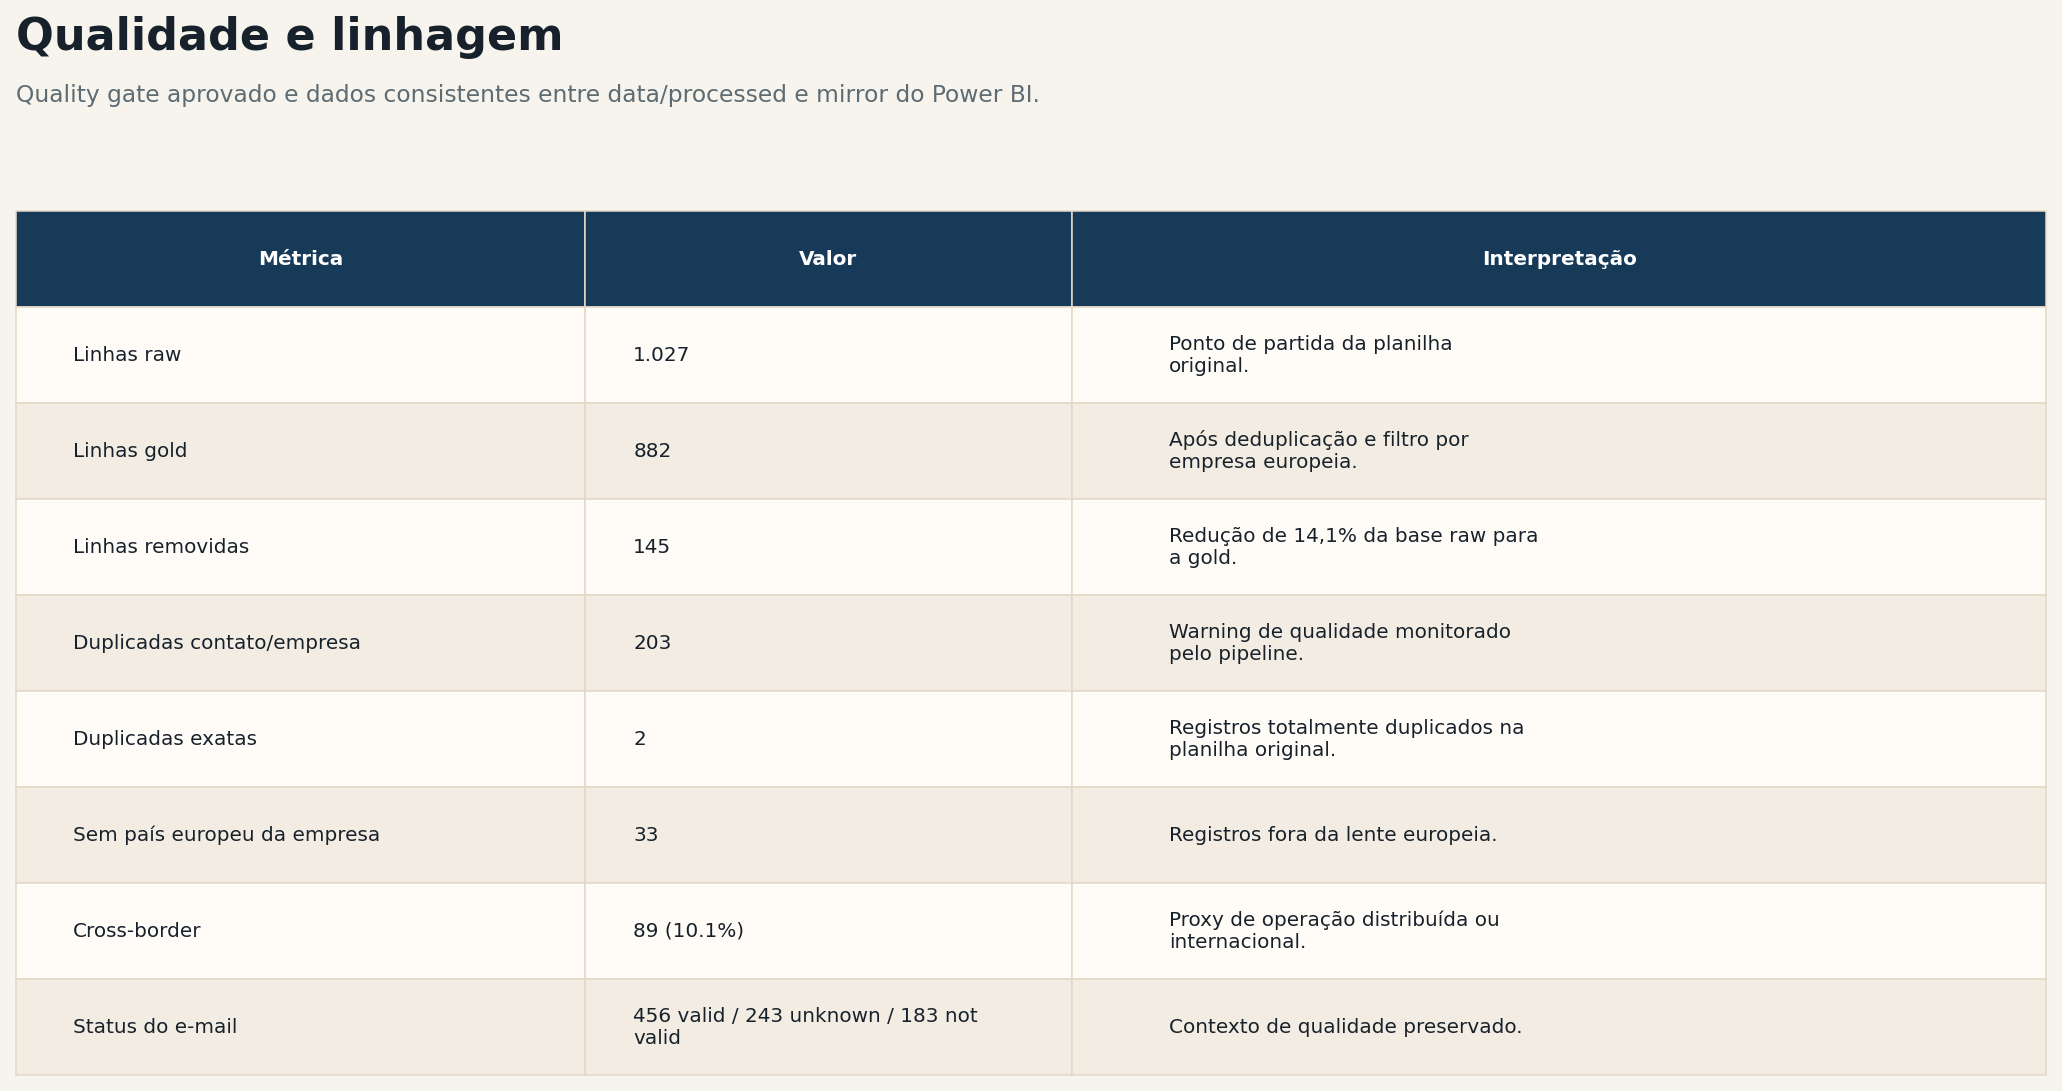
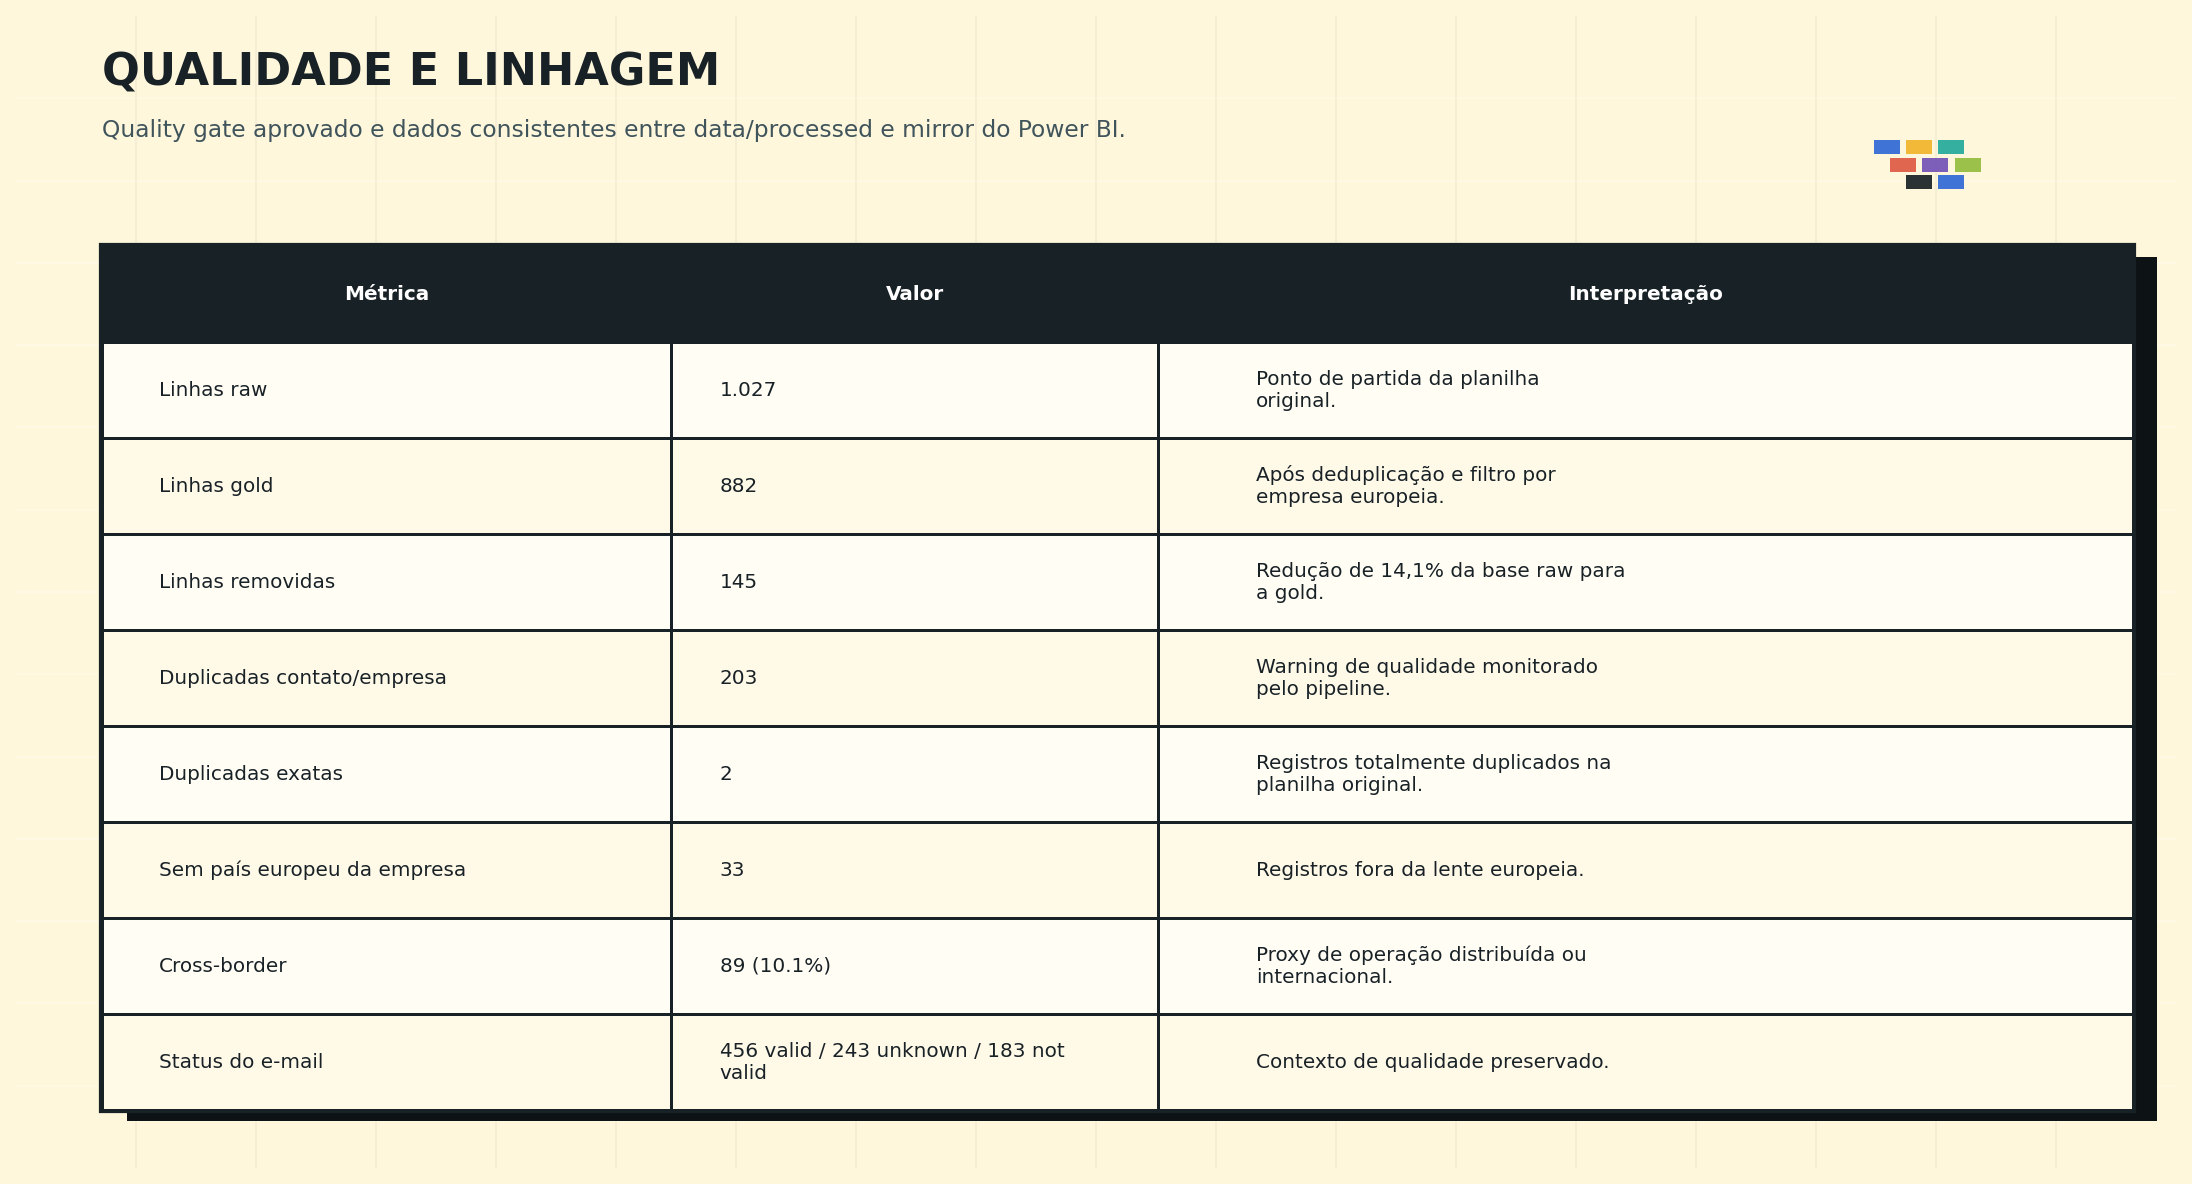
docs: align report previews with pixel art theme

Changed region(s): [[0.0, 0.0935, 0.9932, 0.9661], [0.0, 0.0, 0.5276, 0.1247]]

diff --git a/scripts/build_readme_visual_assets.py b/scripts/build_readme_visual_assets.py
@@ -13,23 +13,37 @@ matplotlib.use("Agg")
 import matplotlib.pyplot as plt
 import pandas as pd
 import seaborn as sns
-from matplotlib.patches import FancyBboxPatch
+from matplotlib.patches import Rectangle
 
 
 PROJECT_ROOT = Path(__file__).resolve().parents[1]
 PROCESSED_DIR = PROJECT_ROOT / "data" / "processed"
 FIGURES_DIR = PROJECT_ROOT / "reports" / "figures"
 
-BG = "#F7F4EE"
-PANEL = "#FFFCF7"
-INK = "#17212B"
-MUTED = "#5D6B72"
-GRID = "#E3D8C8"
-TEAL = "#0B6B5F"
-ORANGE = "#D88A28"
-BLUE = "#183A59"
-PURPLE = "#7A5CFF"
-RED = "#C25132"
+BG = "#FFF7DC"
+PANEL = "#FFFDF4"
+PANEL_ALT = "#FFF9E8"
+INK = "#182126"
+SHADOW = "#0D1215"
+MUTED = "#40545C"
+GRID = "#D7CBB6"
+TEAL = "#24A99A"
+ORANGE = "#F0B429"
+BLUE = "#2E68D6"
+PURPLE = "#7252B8"
+RED = "#DF5A44"
+LEAF = "#94BD3F"
+
+plt.rcParams.update(
+    {
+        "font.family": "DejaVu Sans Mono",
+        "axes.titleweight": "bold",
+        "axes.labelcolor": INK,
+        "xtick.color": INK,
+        "ytick.color": INK,
+        "text.color": INK,
+    }
+)
 
 
 def _load_data() -> tuple[pd.DataFrame, pd.DataFrame, pd.DataFrame, pd.DataFrame]:
@@ -40,18 +54,89 @@ def _load_data() -> tuple[pd.DataFrame, pd.DataFrame, pd.DataFrame, pd.DataFrame
     return gold, country, role, size
 
 
-def _style_axis(ax: plt.Axes) -> None:
+def _add_pixel_grid(fig: plt.Figure) -> None:
+    for x in [i / 18 for i in range(1, 18)]:
+        fig.lines.append(
+            plt.Line2D([x, x], [0, 1], transform=fig.transFigure, color=INK, alpha=0.045, linewidth=0.8, zorder=-20)
+        )
+    for y in [i / 14 for i in range(1, 14)]:
+        fig.lines.append(
+            plt.Line2D([0, 1], [y, y], transform=fig.transFigure, color="#FFFFFF", alpha=0.24, linewidth=0.8, zorder=-20)
+        )
+
+
+def _add_pixel_mosaic(fig: plt.Figure, x: float = 0.86, y: float = 0.88, scale: float = 1.0, alpha: float = 0.92) -> None:
+    size = 0.012 * scale
+    gap = 0.003 * scale
+    pattern = [
+        (0, 0, BLUE),
+        (1, 0, ORANGE),
+        (2, 0, TEAL),
+        (0.5, -1, RED),
+        (1.5, -1, PURPLE),
+        (2.5, -1, LEAF),
+        (1, -2, INK),
+        (2, -2, BLUE),
+    ]
+    for col, row, color in pattern:
+        fig.patches.append(
+            Rectangle(
+                (x + col * (size + gap), y + row * (size + gap)),
+                size,
+                size,
+                transform=fig.transFigure,
+                facecolor=color,
+                edgecolor="none",
+                alpha=alpha,
+                zorder=-2,
+            )
+        )
+
+
+def _panel_shadow(fig: plt.Figure, ax: plt.Axes, dx: float = 0.006, dy: float = -0.008) -> None:
+    bbox = ax.get_position()
+    fig.patches.extend(
+        [
+            Rectangle(
+                (bbox.x0 + dx, bbox.y0 + dy),
+                bbox.width,
+                bbox.height,
+                transform=fig.transFigure,
+                facecolor=SHADOW,
+                edgecolor="none",
+                zorder=-7,
+            ),
+            Rectangle(
+                (bbox.x0, bbox.y0),
+                bbox.width,
+                bbox.height,
+                transform=fig.transFigure,
+                facecolor=PANEL,
+                edgecolor=INK,
+                linewidth=2.2,
+                zorder=-6,
+            ),
+        ]
+    )
+
+
+def _style_axis(ax: plt.Axes, fig: plt.Figure | None = None, *, grid_axis: str = "x") -> None:
+    if fig is not None:
+        _panel_shadow(fig, ax)
     ax.set_facecolor(PANEL)
     for spine in ax.spines.values():
-        spine.set_color(GRID)
-    ax.tick_params(colors=INK, labelsize=9)
-    ax.grid(axis="x", color=GRID, linewidth=0.8)
+        spine.set_color(INK)
+        spine.set_linewidth(2.1)
+    ax.tick_params(colors=INK, labelsize=9, width=1.6)
+    ax.grid(axis=grid_axis, color=GRID, linewidth=0.9)
     ax.set_axisbelow(True)
 
 
 def _add_title(fig: plt.Figure, title: str, subtitle: str | None = None) -> None:
     fig.patch.set_facecolor(BG)
-    fig.text(0.04, 0.94, title, fontsize=20, fontweight="bold", color=INK)
+    _add_pixel_grid(fig)
+    _add_pixel_mosaic(fig)
+    fig.text(0.04, 0.94, title.upper(), fontsize=20, fontweight="black", color=INK)
     if subtitle:
         fig.text(0.04, 0.895, subtitle, fontsize=10.5, color=MUTED)
 
@@ -66,20 +151,20 @@ def _save(fig: plt.Figure, filename: str) -> Path:
 
 def _card(ax: plt.Axes, label: str, value: str, detail: str = "", color: str = TEAL) -> None:
     ax.axis("off")
-    box = FancyBboxPatch(
-        (0.02, 0.08),
-        0.96,
-        0.84,
-        boxstyle="round,pad=0.02,rounding_size=0.04",
-        linewidth=1,
-        edgecolor=GRID,
-        facecolor=PANEL,
-    )
-    ax.add_patch(box)
-    ax.text(0.09, 0.68, label.upper(), fontsize=8.5, color=MUTED, fontweight="bold")
-    ax.text(0.09, 0.38, value, fontsize=22, color=color, fontweight="bold")
+    ax.set_xlim(0, 1)
+    ax.set_ylim(0, 1)
+    ax.add_patch(Rectangle((0.08, 0.04), 0.88, 0.78, facecolor=SHADOW, edgecolor="none", zorder=0))
+    ax.add_patch(Rectangle((0.02, 0.12), 0.88, 0.78, facecolor=PANEL, edgecolor=INK, linewidth=2.6, zorder=1))
+    ax.add_patch(Rectangle((0.76, 0.14), 0.15, 0.20, facecolor=color, edgecolor=INK, linewidth=2.0, zorder=2))
+    ax.text(0.09, 0.66, label.upper(), fontsize=8.5, color=MUTED, fontweight="black", zorder=3)
+    ax.text(0.09, 0.37, value, fontsize=22, color=color, fontweight="black", zorder=3)
     if detail:
-        ax.text(0.09, 0.18, detail, fontsize=8.5, color=MUTED)
+        ax.text(0.09, 0.18, detail, fontsize=8.5, color=MUTED, zorder=3)
+
+
+def _prepare_table_panel(fig: plt.Figure, ax: plt.Axes) -> None:
+    _panel_shadow(fig, ax)
+    ax.axis("off")
 
 
 def _render_table_image(
@@ -97,6 +182,8 @@ def _render_table_image(
     fig.subplots_adjust(left=0.04, right=0.98, top=0.80, bottom=0.05)
     _add_title(fig, title, subtitle)
     ax.axis("off")
+    ax.add_patch(Rectangle((0.012, -0.012), 1, 1, transform=ax.transAxes, facecolor=SHADOW, edgecolor="none", zorder=-3, clip_on=False))
+    ax.add_patch(Rectangle((0, 0), 1, 1, transform=ax.transAxes, facecolor=PANEL, edgecolor=INK, linewidth=2.8, zorder=-2, clip_on=False))
     table = ax.table(
         cellText=wrapped_rows,
         colLabels=columns,
@@ -109,15 +196,15 @@ def _render_table_image(
     table.set_fontsize(9)
 
     for (row_idx, _col_idx), cell in table.get_celld().items():
-        cell.set_edgecolor(GRID)
-        cell.set_linewidth(0.7)
+        cell.set_edgecolor(INK)
+        cell.set_linewidth(1.35)
         cell.get_text().set_va("center")
         if row_idx == 0:
-            cell.set_facecolor(BLUE)
+            cell.set_facecolor(INK)
             cell.get_text().set_color("#FFFFFF")
-            cell.get_text().set_fontweight("bold")
+            cell.get_text().set_fontweight("black")
         else:
-            cell.set_facecolor(PANEL if row_idx % 2 else "#F2ECE2")
+            cell.set_facecolor(PANEL if row_idx % 2 else PANEL_ALT)
             cell.get_text().set_color(INK)
 
     return _save(fig, filename)
@@ -236,26 +323,26 @@ def build_market_dashboard(gold: pd.DataFrame, country: pd.DataFrame) -> Path:
     ax_bar = fig.add_subplot(gs[1:, :2])
     top = country.head(10).sort_values("lead_count")
     colors = [TEAL if tier == "Tier 1" else "#4267D5" for tier in top["priority_tier"]]
-    ax_bar.barh(top["company_country"], top["lead_count"], color=colors)
+    ax_bar.barh(top["company_country"], top["lead_count"], color=colors, edgecolor=INK, linewidth=1.6)
     ax_bar.set_title("Top mercados por leads elegíveis", loc="left", color=INK, fontweight="bold")
     ax_bar.set_xlabel("Leads")
-    _style_axis(ax_bar)
+    _style_axis(ax_bar, fig)
 
     ax_table = fig.add_subplot(gs[1:, 2:])
-    ax_table.axis("off")
+    _prepare_table_panel(fig, ax_table)
     table_data = country.head(8)[["company_country", "lead_count", "company_count", "priority_tier"]]
     table = ax_table.table(
         cellText=table_data.values,
         colLabels=["País", "Leads", "Empresas", "Tier"],
-        loc="center",
         cellLoc="left",
+        bbox=[0, 0, 1, 1],
     )
     table.auto_set_font_size(False)
     table.set_fontsize(9)
-    table.scale(1, 1.7)
     for (row, _col), cell in table.get_celld().items():
-        cell.set_edgecolor(GRID)
-        cell.set_facecolor(BLUE if row == 0 else (PANEL if row % 2 else "#F2ECE2"))
+        cell.set_edgecolor(INK)
+        cell.set_linewidth(1.25)
+        cell.set_facecolor(INK if row == 0 else (PANEL if row % 2 else PANEL_ALT))
         cell.get_text().set_color("#FFFFFF" if row == 0 else INK)
         if row == 0:
             cell.get_text().set_fontweight("bold")
@@ -286,17 +373,17 @@ def build_buyer_dashboard(gold: pd.DataFrame, role: pd.DataFrame, size: pd.DataF
 
     ax_role = fig.add_subplot(gs[1:, :2])
     role_plot = role.sort_values("lead_count")
-    ax_role.barh(role_plot["role_category"], role_plot["lead_count"], color=TEAL)
+    ax_role.barh(role_plot["role_category"], role_plot["lead_count"], color=TEAL, edgecolor=INK, linewidth=1.6)
     ax_role.set_title("Leads por persona", loc="left", color=INK, fontweight="bold")
     ax_role.set_xlabel("Leads")
-    _style_axis(ax_role)
+    _style_axis(ax_role, fig)
 
     ax_size = fig.add_subplot(gs[1, 2:])
-    ax_size.bar(size["company_size_segment"], size["lead_count"], color=[ORANGE, TEAL, BLUE, PURPLE])
+    ax_size.bar(size["company_size_segment"], size["lead_count"], color=[ORANGE, TEAL, BLUE, PURPLE], edgecolor=INK, linewidth=1.6)
     ax_size.set_title("Leads por porte", loc="left", color=INK, fontweight="bold")
     ax_size.set_ylabel("Leads")
     ax_size.tick_params(axis="x", labelrotation=15)
-    _style_axis(ax_size)
+    _style_axis(ax_size, fig, grid_axis="y")
 
     ax_heat = fig.add_subplot(gs[2, 2:])
     matrix = pd.crosstab(gold["role_category"], gold["company_size_segment"])
@@ -310,7 +397,33 @@ def build_buyer_dashboard(gold: pd.DataFrame, role: pd.DataFrame, size: pd.DataF
     ]
     size_order = ["1. Startup / SMB", "2. Mid-Market", "3. Enterprise", "4. Unknown"]
     matrix = matrix.reindex(index=role_order, columns=size_order, fill_value=0)
-    sns.heatmap(matrix, annot=True, fmt="d", cmap="YlGnBu", cbar=False, linewidths=0.4, ax=ax_heat)
+    matrix = matrix.rename(
+        index={
+            "Executive / Technical Decision Maker": "Exec / Tech",
+            "Data / Compliance": "Data / Compliance",
+            "Security / Risk": "Security / Risk",
+            "IT / Engineering Management": "IT Mgmt",
+            "Individual Contributor / Specialist": "IC / Specialist",
+            "Other": "Other",
+        },
+        columns={
+            "1. Startup / SMB": "Startup / SMB",
+            "2. Mid-Market": "Mid-Market",
+            "3. Enterprise": "Enterprise",
+            "4. Unknown": "Unknown",
+        },
+    )
+    _panel_shadow(fig, ax_heat)
+    sns.heatmap(
+        matrix,
+        annot=True,
+        fmt="d",
+        cmap=sns.color_palette([PANEL_ALT, "#DFF5EE", TEAL, BLUE], as_cmap=True),
+        cbar=False,
+        linewidths=1.2,
+        linecolor=INK,
+        ax=ax_heat,
+    )
     ax_heat.set_title("Mix persona x porte", loc="left", color=INK, fontweight="bold")
     ax_heat.set_xlabel("")
     ax_heat.set_ylabel("")
@@ -354,21 +467,23 @@ def build_border_dashboard(gold: pd.DataFrame) -> Path:
     )
 
     ax_bar = fig.add_subplot(gs[1:, :2])
-    ax_bar.barh(mismatch["company_country"], mismatch["mismatch_rate"], color=ORANGE)
+    ax_bar.barh(mismatch["company_country"], mismatch["mismatch_rate"], color=ORANGE, edgecolor=INK, linewidth=1.6)
     ax_bar.set_title("Taxa cross-border por país", loc="left", color=INK, fontweight="bold")
     ax_bar.set_xlabel("Share")
     ax_bar.xaxis.set_major_formatter(lambda x, _: f"{x:.0%}")
-    _style_axis(ax_bar)
+    _style_axis(ax_bar, fig)
 
     ax_scatter = fig.add_subplot(gs[1:, 2:])
-    ax_scatter.scatter(mismatch["lead_count"], mismatch["mismatch_rate"], s=130, color=RED)
+    ax_scatter.scatter(mismatch["lead_count"], mismatch["mismatch_rate"], s=145, color=RED, edgecolor=INK, linewidth=1.4)
     for row in mismatch.itertuples(index=False):
         ax_scatter.text(row.lead_count + 1, row.mismatch_rate + 0.003, row.company_country, fontsize=8, color=INK)
-    ax_scatter.set_title("Volume x sinal distribuido", loc="left", color=INK, fontweight="bold")
+    ax_scatter.set_title("Volume x sinal distribuído", loc="left", color=INK, fontweight="bold")
     ax_scatter.set_xlabel("Leads elegíveis")
     ax_scatter.set_ylabel("Taxa cross-border")
+    ax_scatter.set_xlim(0, mismatch["lead_count"].max() + 32)
+    ax_scatter.set_ylim(max(0, mismatch["mismatch_rate"].min() - 0.01), mismatch["mismatch_rate"].max() + 0.015)
     ax_scatter.yaxis.set_major_formatter(lambda x, _: f"{x:.0%}")
-    _style_axis(ax_scatter)
+    _style_axis(ax_scatter, fig)
 
     return _save(fig, "06_powerbi_border_signal.png")
 
@@ -390,40 +505,40 @@ def build_action_dashboard(country: pd.DataFrame) -> Path:
 
     tier = country.groupby("priority_tier", as_index=False)["lead_count"].sum()
     ax_tier = fig.add_subplot(gs[0, :2])
-    ax_tier.bar(tier["priority_tier"], tier["lead_count"], color=[TEAL, BLUE, PURPLE])
+    ax_tier.bar(tier["priority_tier"], tier["lead_count"], color=[TEAL, BLUE, PURPLE], edgecolor=INK, linewidth=1.6)
     ax_tier.set_title("Leads por tier", loc="left", color=INK, fontweight="bold")
     ax_tier.set_ylabel("Leads")
-    _style_axis(ax_tier)
+    _style_axis(ax_tier, fig, grid_axis="y")
 
     ax_rec = fig.add_subplot(gs[0, 2:])
-    ax_rec.axis("off")
+    _prepare_table_panel(fig, ax_rec)
     recommendations = [
         ("Privacy-first", "Germany, France, Belgium", "GDPR, soberania e menor dependência do Google"),
         ("Scale-first", "United Kingdom, Ireland, Lithuania, Estonia", "eficiência técnica e implementação rápida"),
         ("Balanced", "Spain, Portugal, Poland", "performance anti-bot com prontidão regulatória"),
     ]
-    y = 0.88
+    y = 0.84
     for label, markets, message in recommendations:
-        ax_rec.text(0.02, y, label, fontsize=12, fontweight="bold", color=TEAL)
-        ax_rec.text(0.02, y - 0.13, markets, fontsize=10, color=INK)
-        ax_rec.text(0.02, y - 0.25, message, fontsize=9, color=MUTED)
-        y -= 0.34
+        ax_rec.text(0.02, y, label, fontsize=11, fontweight="bold", color=TEAL)
+        ax_rec.text(0.02, y - 0.11, markets, fontsize=9.4, color=INK)
+        ax_rec.text(0.02, y - 0.21, message, fontsize=8.4, color=MUTED)
+        y -= 0.30
 
     ax_table = fig.add_subplot(gs[1, :])
-    ax_table.axis("off")
+    _prepare_table_panel(fig, ax_table)
     table_data = country.head(10)[["country_rank", "company_country", "priority_tier", "lead_count", "company_count"]]
     table = ax_table.table(
         cellText=table_data.values,
         colLabels=["Rank", "País", "Tier", "Leads", "Empresas"],
-        loc="center",
         cellLoc="left",
+        bbox=[0, 0, 1, 1],
     )
     table.auto_set_font_size(False)
     table.set_fontsize(9)
-    table.scale(1, 1.65)
     for (row, _col), cell in table.get_celld().items():
-        cell.set_edgecolor(GRID)
-        cell.set_facecolor(BLUE if row == 0 else (PANEL if row % 2 else "#F2ECE2"))
+        cell.set_edgecolor(INK)
+        cell.set_linewidth(1.25)
+        cell.set_facecolor(INK if row == 0 else (PANEL if row % 2 else PANEL_ALT))
         cell.get_text().set_color("#FFFFFF" if row == 0 else INK)
         if row == 0:
             cell.get_text().set_fontweight("bold")

diff --git a/README.md b/README.md
@@ -93,7 +93,7 @@ erDiagram
 
 ## Dashboard e Visualizações
 
-O GitHub não executa relatórios Power BI interativos dentro do README. Como este projeto usa Power BI Desktop gratuito, a entrega visual no GitHub é feita com prévias estáticas geradas a partir dos mesmos CSVs processados que alimentam o PBIP. O relatório interativo completo está versionado em [`powerbi/hcaptcha-positioning/hcaptcha_report.pbip`](powerbi/hcaptcha-positioning/hcaptcha_report.pbip).
+O GitHub não executa relatórios Power BI interativos dentro do README. Como este projeto usa Power BI Desktop gratuito, a entrega visual no GitHub é feita com prévias estáticas geradas a partir dos mesmos CSVs processados que alimentam o PBIP. As imagens seguem a identidade pixel art da apresentação pública para manter consistência visual entre README, dashboard e defesa. O relatório interativo completo está versionado em [`powerbi/hcaptcha-positioning/hcaptcha_report.pbip`](powerbi/hcaptcha-positioning/hcaptcha_report.pbip).
 
 ### Prévia das Páginas do Power BI
 

diff --git a/powerbi/hcaptcha-positioning/README.md b/powerbi/hcaptcha-positioning/README.md
@@ -11,7 +11,7 @@ Este projeto foi estruturado em formato `PBIP` para desenvolvimento versionável
 
 ## Pré-visualização do relatório Power BI
 
-As imagens abaixo deixam as páginas do relatório visíveis diretamente no GitHub. Elas são geradas em `reports/figures/` a partir dos mesmos CSVs processados usados pelo projeto `PBIP`; a exploração interativa continua no Power BI Desktop gratuito.
+As imagens abaixo deixam as páginas do relatório visíveis diretamente no GitHub. Elas são geradas em `reports/figures/` a partir dos mesmos CSVs processados usados pelo projeto `PBIP` e seguem a identidade pixel art da apresentação pública; a exploração interativa continua no Power BI Desktop gratuito.
 
 ### Market Command
 
